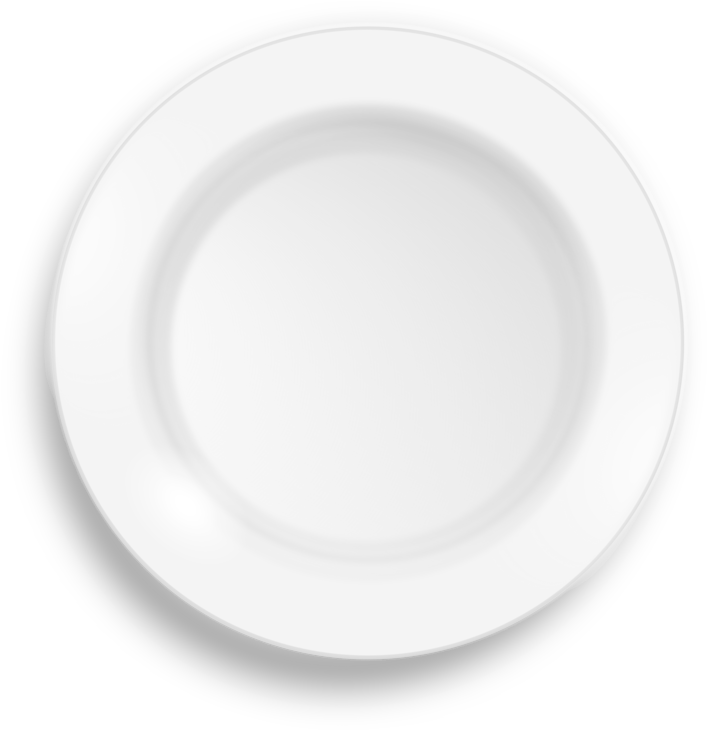
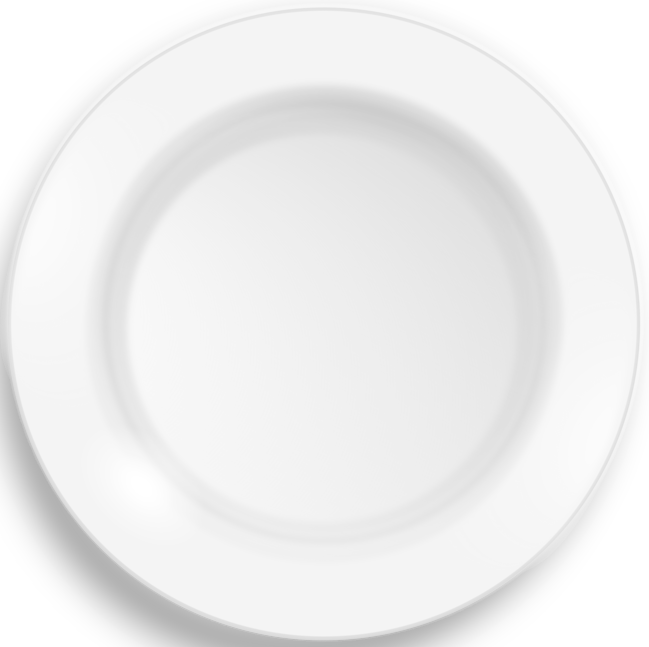
Add CSS:plate

diff --git a/style.css b/style.css
@@ -18,6 +18,9 @@
   --wieght-semi-bold: 600;
   --weight-regular: 400;
 
+  /* Size */
+  --size-plate: 35rem;
+
   /* Border */
   --border: solid 3px var(--color-black);
   --border-radius: 4px;
@@ -37,6 +40,8 @@ body {
   justify-content: center;
   align-items: center;
   gap: 2em;
+  height: 100vh;
+  margin: 0;
   background-color: var(--color-blue);
 }
 
@@ -109,4 +114,14 @@ button {
   width: 70%;
   height: var(--font-regular);
   background-color: var(--color-red);
+}
+
+/* Plate */
+.playground__plate {
+  background-color: var(--color-brown);
+}
+
+.plate__img {
+  width: var(--size-plate);
+  height: var(--size-plate);
 }

diff --git a/index.html b/index.html
@@ -43,7 +43,7 @@
 
       <!-- Plate -->
       <section class="container playground__plate">
-        <img src="images/plate.png" alt="plate" />
+        <img src="images/plate.png" alt="plate" class="plate__img" />
       </section>
     </main>
 
